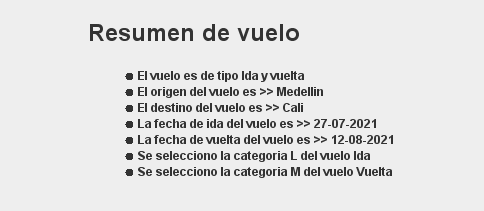
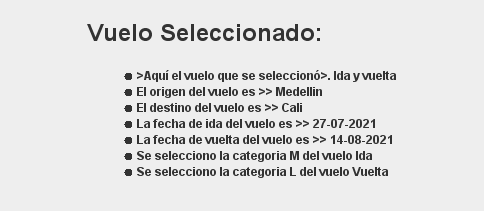
comentario

diff --git a/src/main/java/steps/AviancaSteps.java b/src/main/java/steps/AviancaSteps.java
@@ -131,7 +131,7 @@ public class AviancaSteps {
         listaSoloIda.add(message3Ida);
         clicEnElemento(AviancaHomePage.getTxtFechaDestinoSoloIda());
         JavascriptExecutor jse = (JavascriptExecutor)SeleniumWebDriver.driver;
-        
+
         AviancaHomePage.setBtnFechaCalendarioSoloIda(lecturaExcel.get(index).get("FechaIda").split("-")[0].replaceAll("01", "1").replaceAll("02", "2").replaceAll("03", "3").replaceAll("04", "4").replaceAll("05", "5").replaceAll("06", "6").replaceAll("07", "7").replaceAll("08", "8").replaceAll("09", "9"), lecturaExcel.get(index).get("FechaIda").split("-")[1].replaceAll("01", "1").replaceAll("02", "2").replaceAll("03", "3").replaceAll("04", "4").replaceAll("05", "5").replaceAll("06", "6").replaceAll("07", "7").replaceAll("08", "8").replaceAll("09", "9"), lecturaExcel.get(index).get("FechaIda").split("-")[2]);
         clicEnElemento(AviancaHomePage.getBtnFechaCalendarioSoloIda());
         String message4Ida=lecturaExcel.get(index).get("FechaIda");
@@ -264,8 +264,9 @@ public class AviancaSteps {
         JFrame frame = new JFrame(name);
         JPanel panel = new JPanel();
         panel.setLayout(new FlowLayout());
-        JLabel label = new JLabel("<html><h1>Resumen de vuelo</h1>" +
-                "<ul><li>El vuelo es de tipo "+message1+"</li>" +
+        JLabel label = new JLabel("<html><h1>Vuelo Seleccionado:</h1>" +
+                "<ul><li>&gt;Aquí el vuelo que se\n" +
+                "seleccionó&gt;. "+message1+"</li>" +
                 "<li>El origen del vuelo es >> "+message2+"</li>" +
                 "<li>El destino del vuelo es >> "+message3+"</li>" +
                 "<li>La fecha de ida del vuelo es >> "+message4+"</li>" +
@@ -277,22 +278,24 @@ public class AviancaSteps {
         frame.add(panel);
         frame.setSize(500, 250);
         frame.setLocationRelativeTo(null);
-        frame.setDefaultCloseOperation(JFrame.EXIT_ON_CLOSE);
         frame.setVisible(true);
         getSaveSnapShot(panel,"IdaYVuelta.png");
+        frame.setDefaultCloseOperation(JFrame.EXIT_ON_CLOSE);
+        Thread.sleep(5000);
+        frame.dispose();
+
 
     }
     public void frameSoloIda(String name,String message1, String message2, String message3, String message4,String message5 ) throws Exception {
         JFrame frame = new JFrame(name);
         JPanel panel = new JPanel();
         panel.setLayout(new FlowLayout());
-        JLabel label = new JLabel("<html><h1>Resumen de vuelo</h1>" +
+        JLabel label = new JLabel("<html><h1>Vuelo Seleccionado:</h1>" +
                 "<ul><li>El vuelo es de tipo "+message1+"</li>" +
                 "<li>El origen del vuelo es >> "+message2+"</li>" +
                 "<li>El destino del vuelo es >> "+message3+"</li>" +
                 "<li>La fecha de ida del vuelo es >> "+message4+"</li>"  +
                 "<li>Se selecciono la categoria  "+message5+"  del vuelo</li></html>");
-
         panel.add(label);
         frame.add(panel);
         frame.setSize(500, 250);
@@ -300,6 +303,8 @@ public class AviancaSteps {
         frame.setDefaultCloseOperation(JFrame.EXIT_ON_CLOSE);
         frame.setVisible(true);
         getSaveSnapShot(panel,"SoloIda.png");
+        Thread.sleep(5000);
+        frame.dispose();
 
     }
 }
